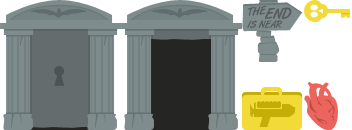
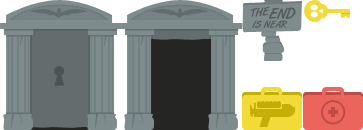
new helth item desin

diff --git a/app/index.html b/app/index.html
@@ -6,7 +6,7 @@
     <head>
         <meta charset="utf-8">
         <meta http-equiv="X-UA-Compatible" content="IE=edge">
-        <title>Another Zombie Game</title>
+        <title>Heal'em all. There's a cure for zombies. HTML5 game.</title>
         <meta name="description" content="">
         <!-- <meta name="viewport" content="width=device-width"> -->
         <!-- <meta name="viewport" content="width=640, user-scalable=0, minimum-scale=1.0, maximum-scale=1.0"/> -->

diff --git a/app/scripts/game.js b/app/scripts/game.js
@@ -1125,10 +1125,11 @@
     stage.insert(new Q.UI.Text({
       x: Q.width / 2,
       y: marginY / 2,
-      label: "Heal'em all | There's a cure for zombies",
+      label: "Heal'em all \n There's a cure for zombies",
       size: 30,
       color: "#fff",
-      family: "Ubuntu"
+      family: "Ubuntu",
+      align: "center"
     }));
     stage.insert(new Q.UI.Text({
       x: Q.width / 2,

diff --git a/README.md b/README.md
@@ -1,8 +1,13 @@
 ![GitHub Game Off Game Jam](https://f.cloud.github.com/assets/121322/1436486/25f88b78-4158-11e3-9b23-43596516362c.png)
 
-## Another Zombie Game: but Reversed
+## Heal'em all. There's a cure for zombies.
 
-Imagine, what if the cure exists? If zombies plague can be stoped? But watch out! You have only one chance.
+Imagine, what if the cure exists? What if zombies plague can be stoped?
+Explore old, abandoned graveyard, heal as many zombies as you can, and find your way out.
+But be careful not to become one of them!
+
+We present you our first HTML5 game. Play it anywhere and anyhow you want.
+We also support latest mobile devices!
 
 ## Team
 
